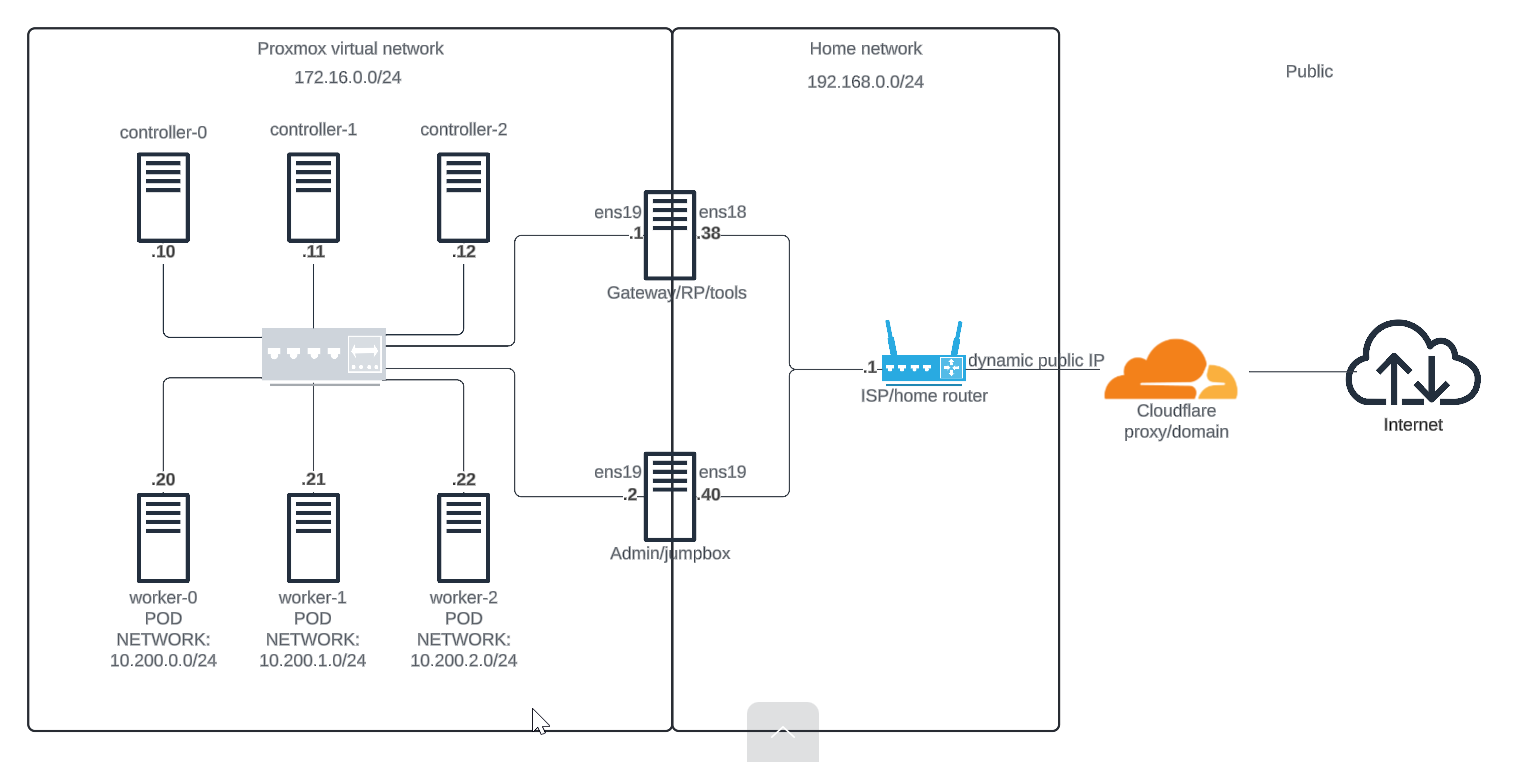
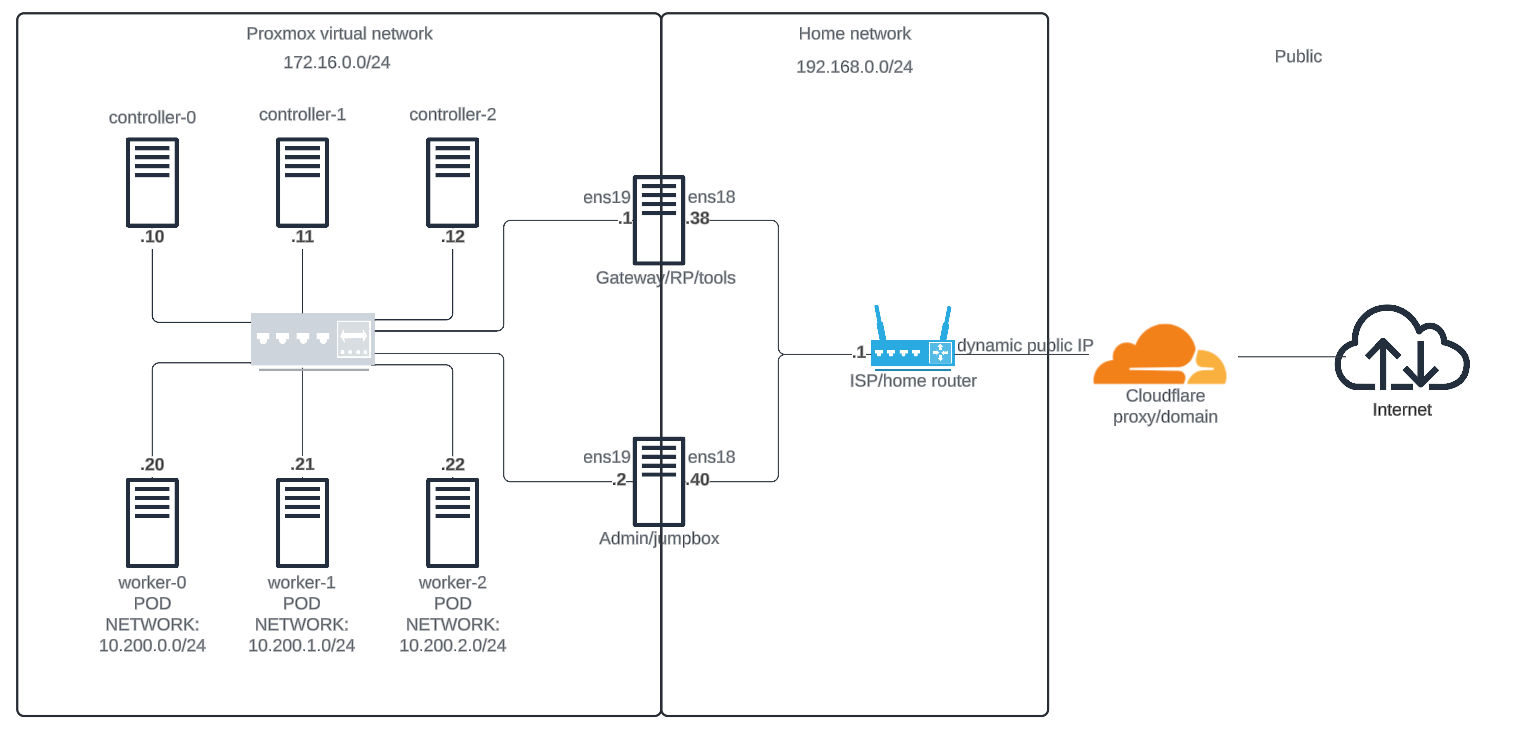
update pre-reqs to add more info about ddns setup

Changed region(s): [[0.0, 0.0, 0.9908, 0.9986], [0.836, 0.0624, 0.8669, 0.1248], [0.4954, 0.4681, 0.5264, 0.4993]]

diff --git a/docs/01-prerequisites.md b/docs/01-prerequisites.md
@@ -10,13 +10,14 @@ List of the VM used in this tutorial :
 
 |Name|Role|vCPU|RAM|Storage (thin)|IP|OS|
 |--|--|--|--|--|--|--|
-|controller-0|controller|2|4GB|20GB|192.168.8.10/24|Ubuntu|
-|controller-1|controller|2|4GB|20GB|192.168.8.11/24|Ubuntu|
-|controller-2|controller|2|4GB|20GB|192.168.8.12/24|Ubuntu|
-|worker-0|worker|2|4GB|20GB|192.168.8.20/24|Ubuntu|
-|worker-1|worker|2|4GB|20GB|192.168.8.21/24|Ubuntu|
-|worker-2|worker|2|4GB|20GB|192.168.8.22/24|Ubuntu|
-|gateway-01|Reverse Proxy, client tools, gateway|1|1GB|20GB|192.168.8.1/24 + PUBLIC IP|Debian|
+|controller-0|controller|2|4GB|20GB|172.16.0.10/24|Ubuntu|
+|controller-1|controller|2|4GB|20GB|172.16.0.11/24|Ubuntu|
+|controller-2|controller|2|4GB|20GB|172.16.0.12/24|Ubuntu|
+|worker-0|worker|2|4GB|20GB|172.16.0.20/24|Ubuntu|
+|worker-1|worker|2|4GB|20GB|172.16.0.21/24|Ubuntu|
+|worker-2|worker|2|4GB|20GB|172.16.0.22/24|Ubuntu|
+|gateway-01|Reverse Proxy, client tools, gateway|1|1GB|20GB|192.168.0.38/24 + 172.16.0.1/24|Debian|
+|admin-jumpbox|jumpbox/admin tasks|1|4GB|20GB|172.16.0.22/24|Ubuntu|
 
 On the Proxmox hypervisor, I just added the `k8s-` prefix in the VM names.
 
@@ -28,18 +29,47 @@ On the Proxmox hypervisor, I just added the `k8s-` prefix in the VM names.
 
 For this tutorial, you need 2 networks on your Proxmox hypervisor :
 
-* a public network bridge (`vmbr0` in the following screenshot).
-* a private Kubernetes network bridge (`vmbr8` in the following screenshot).
+* a network bridge to your local network (`vmbr0` in the following screenshot). This network has access to the internet, hence serves as the public network bridge.
+* a Proxmox virtual private network bridge (`vmbr8` in the following screenshot). This network has no direct internet connectivity and routes traffic via `gateway-01`. Hence, the jumpbox is used to connect to all the nodes within this network. 
 
 ![proxmox network](images/proxmox-network.PNG)
 
+> Quick tip: when creating the K8s VMs on Proxmox, add both network interfaces to them initially as they need internet connectivity during installation/for updates. You can detach the `vmbr8` interface from the VM after build.
+
+Here is a sample of the network config for one of the servers in the virtual private network:
+
+```bash
+root@controller-0:/# cat /etc/netplan/00-installer-config.yaml 
+network:
+  version: 2
+  ethernets:
+    ens18:
+      dhcp4: true
+      dhcp4-overrides:
+        use-routes: false
+    ens19:
+      dhcp4: no
+      addresses:
+        - 172.16.0.10/24
+      gateway4: 172.16.0.1
+      nameservers:
+        addresses:
+          - 8.8.8.8
+          - 8.8.4.4
+      routes:
+        - to: 172.16.0.0/24
+          via: 172.16.0.1
+          scope: link
+```
+
+
 > Note: the pods networks will be defined later.
 
-All the Kubernetes nodes (workers and controllers) only need one network interface linked to the private Kubernetes network (`vmbr8`).
+All the Kubernetes nodes (workers and controllers) only need one network interface linked to the virtual private network (`vmbr8`).
 
 ![proxmox vm hardware](images/proxmox-vm-hardware.PNG)
 
-The reverse proxy / client tools / gateway VM needs 2 network interfaces, one linked to the private Kubernetes network (`vmbr8`) and the other linked to the public network (`vmbr0`).
+The reverse proxy/client tools/gateway and admin/jumpbox VMs need 2 network interfaces, one linked to the virtual private network (`vmbr8`) and the other linked to the local network (`vmbr0`).
 
 ![proxmox vm hardware](images/proxmox-vm-hardware-gw.PNG)
 
@@ -57,7 +87,7 @@ This diagram represents the network design:
 >
 > Because it's just a tutorial, the IPv6 stack is not configured, but you can configure it if you want.
 
-This VM is used as a NAT gateway for the private Kubernetes network, as a reverse proxy and as a client tools.
+This VM is used as a NAT gateway for the virtual private network, as a reverse proxy and as a client tools.
 
 This means all the client steps like certificates generation will be done on this VM (in the next parts of this tutorial).
 
@@ -65,30 +95,31 @@ You have to:
 
 * Install the latest [amd64 Debian netinst image](https://www.debian.org/CD/netinst/) on this VM.
 
-* Configure the network interfaces (see the network architecture). Example of `/etc/network/interfaces` file if your public interface is ens18 and your private interface is ens19 (you need to replace `PUBLIC_IP_ADDRESS`, `MASK` and `PUBLIC_IP_GATEWAY` with your values):
+* Configure the network interfaces (see the network architecture). Example of `/etc/network/interfaces` file if your local network interface is ens18 and your Proxmox virtual private interface is ens19:
 
 ```bash
+root@gateway-01:~# cat /etc/network/interfaces
+# This file describes the network interfaces available on your system
+# and how to activate them. For more information, see interfaces(5).
+
 source /etc/network/interfaces.d/*
 
 # The loopback network interface
 auto lo
 iface lo inet loopback
 
-# The public network interface
-auto ens18
+# The primary network interface
 allow-hotplug ens18
-iface ens18 inet static
-        address PUBLIC_IP_ADDRESS/MASK
-        gateway PUBLIC_IP_GATEWAY
-        dns-nameservers 9.9.9.9
+iface ens18 inet dhcp
 
-# The private network interface
+# Add the following configuration for ens19
 auto ens19
-allow-hotplug ens19
 iface ens19 inet static
-        address 192.168.8.1/24
-        dns-nameservers 9.9.9.9
+    address 172.16.0.1
+    netmask 255.255.255.0
 ```
+
+> Note: I did not configure the IP address for ens19 as static because it is managed automatically by my network/router (DHCP); same goes for DNS. To ensure stability, I have reserved the IP addresses for all VMs within the local network range on the router, to prevent them from from changing.
 
 > If you want, you can define the IPv6 stack configuration.
 >
@@ -130,7 +161,7 @@ sudo echo '1' > /proc/sys/net/ipv4/ip_forward
 
 > If you want, you can define the IPv6 stack configuration.
 
-* Configure the iptables firewall (allow some ports and configure NAT). Example of `/etc/iptables/rules.v4` file if ens18 is your public interface and ens19 is your private interface:
+* Configure the iptables firewall (allow some ports and configure NAT). Example of `/etc/iptables/rules.v4` file if ens18 is your local network interface and ens19 is your private interface:
 
 ```bash
 # Generated by xtables-save v1.8.2 on Fri Jun  5 16:45:02 2020
@@ -163,24 +194,24 @@ COMMIT
 sudo iptables-restore < /etc/iptables/rules.v4
 ```
 
-* Configure the `/etc/hosts` file (you need to replace `PUBLIC_GW_IP`):
+* Configure the `/etc/hosts` file:
 
 ```bash
 127.0.0.1       localhost
-PUBLIC_GW_IP    gateway-01.external gateway-01
+192.168.0.1     gateway-01.external gateway-01
 
 # The following lines are desirable for IPv6 capable hosts
-::1     localhost ip6-localhost ip6-loopback
-ff02::1 ip6-allnodes
-ff02::2 ip6-allrouters
+::1             localhost ip6-localhost ip6-loopback
+ff02::1         ip6-allnodes
+ff02::2         ip6-allrouters
 
-192.168.8.10    controller-0
-192.168.8.11    controller-1
-192.168.8.12    controller-2
+172.16.0.10    controller-0
+172.16.0.11    controller-1
+172.16.0.12    controller-2
 
-192.168.8.20    worker-0
-192.168.8.21    worker-1
-192.168.8.22    worker-2
+172.16.0.20    worker-0
+172.16.0.21    worker-1
+172.16.0.22    worker-2
 ```
 
 * To confirm the network configuration, reboot the VM and check the active IP addresses:
@@ -199,24 +230,36 @@ These VM are used as Kubernetes node (controllers or workers).
 
 The basic VM configuration process is the same for the 6 VM (you can also configure one, clone it and change IP address and hostname for each clone).
 
+ > Remember ☝🏽✍🏽: when creating the K8s node VMs on Proxmox, add both network interfaces to them initially as they need internet connectivity during installation/for updates. You can detach the `vmbr8` interface from the VM after build.
+
 You have to:
 
 * Install the [Ubuntu 22.04.3 LTS Server install image](https://releases.ubuntu.com/22.04/) on this VM.
 
-* Configure the network interface (see the network architecture). Example of `/etc/netplan/00-installer-config.yaml` file if ens18 is the name of your private network interface (you need to change the IP address depending on the installed server):
+* Configure the network interface (see the network architecture). Example of `/etc/netplan/00-installer-config.yaml` file if ens18 is the name of your Proxmox virtual private network interface (you need to change the IP address depending on the installed server):
 
 ```bash
-# This is the network config written by 'subiquity'
+root@controller-0:/# cat /etc/netplan/00-installer-config.yaml 
 network:
+  version: 2
   ethernets:
     ens18:
+      dhcp4: true
+      dhcp4-overrides:
+        use-routes: false
+    ens19:
+      dhcp4: no
       addresses:
-      - 192.168.8.10/24
-      gateway4: 192.168.8.1
+        - 172.16.0.10/24
+      gateway4: 172.16.0.1
       nameservers:
         addresses:
-        - 9.9.9.9
-  version: 2
+          - 8.8.8.8
+          - 8.8.4.4
+      routes:
+        - to: 172.16.0.0/24
+          via: 172.16.0.1
+          scope: link
 ```
 
 > If you want, you can define the IPv6 stack configuration.
@@ -250,7 +293,7 @@ sudo systemctl enable ssh
 sudo systemctl start ssh
 ```
 
-* Configure `/etc/hosts` file. Example for controller-0 (need to replace `PUBLIC_GW_IP` and adapt this sample config for each VM):
+* Configure `/etc/hosts` file. Example for controller-0:
 
 ```bash
 127.0.0.1 localhost
@@ -262,22 +305,88 @@ fe00::0 ip6-localnet
 ff00::0 ip6-mcastprefix
 ff02::1 ip6-allnodes
 ff02::2 ip6-allrouters
-
-PUBLIC_GW_IP    gateway-01.external
-192.168.8.1     gateway-01
-
-192.168.8.11    controller-1
-192.168.8.12    controller-2
-
-192.168.8.20    worker-0
-192.168.8.21    worker-1
-192.168.8.22    worker-2
+# Example entry to add to all nodes' /etc/hosts
+172.16.0.11    controller-1
+172.16.0.12    controller-2
+172.16.0.20    worker-0
+172.16.0.21    worker-1
+172.16.0.22    worker-2
+192.168.0.1    gateway-01
 ```
 
 * To confirm the network configuration, reboot the VM and check the active IP address:
 
 ```bash
 sudo reboot
+```
+
+## Setting up admin server/jumpbox and DDNS (Dynamic DNS)
+
+#### Admin server/jumpbox setup
+This VM is used for accessing the K8s node machines as they can not be accessed directly from the local network (`192.168.0.0/24`). Not much configuration is needed except assigning it the required interfaces as shown in the network diagram and configuring SSH keys to be used for connecting to the K8s nodes.  
+
+#### DDNS (Dynamic DNS) configuration
+- [Register a domain with Cloudflare](https://developers.cloudflare.com/registrar/get-started/register-domain/). If you already have a domain registered elsewhere, then [add your domain/site on Cloudflare](https://developers.cloudflare.com/fundamentals/setup/manage-domains/add-site/) and [update the nameservers at your domain registrar to point to Cloudflare as your authoritative DNS server](https://developers.cloudflare.com/dns/zone-setups/full-setup/setup/).
+
+>
+- [Add a DNS record (A record) on the site](https://developers.cloudflare.com/dns/manage-dns-records/how-to/create-dns-records/) to map your domain to your home router's current public IP address.
+
+> Tip: This is optional but I highly recommend enabling `proxied status` when adding the A record.
+
+>
+- [Install DDClient and configure it with your registered domain](https://strangebutohwell.gitbook.io/knowledge/linux/applications/ddclient/installing-latest-ddclien; ignore the PHP installation part of the guide. Here is an example of a working ddclient.conf:
+
+```bash
+root@jumpbox:/etc/ddclient# cat ddclient.conf 
+daemon=600  # check every 10 minutes
+ssl=yes     # use ssl-support
+use=web     # acquire current IP address via web URL
+
+##
+## Cloudflare
+protocol=cloudflare,        \
+zone=your-domain.com,            \
+ttl=1,                      \
+login=your-email-address,    \
+password=your-cloudflare global-api-key   \
+your-domain.com
+```
+>
+- Configure ddclient to run as a daemon by modifying  `/etc/default/ddclient ` file to include the correct daemon settings below:
+
+```bash
+# /etc/default/ddclient
+
+# Set to "true" if ddclient should run in daemon mode
+run_daemon="true"
+
+# Set the interval in seconds between updates
+daemon_interval="600"
+```
+
+> Note: I used [global API key for this setup](https://developers.cloudflare.com/dns/manage-dns-records/how-to/create-dns-records/), not API token which is the best choice fo production environments.
+
+- Apply the changes by restarting the ddclient service and test
+
+```bash
+# restart the ddclient service
+sudo systemctl restart ddclient
+sudo systemctl enable ddclient
+```
+
+```bash
+# check service status
+sudo systemctl status ddclient
+```
+
+```bash
+# get current public IP address
+sudo ddclient -query
+```
+
+```bash
+# confirm that IP address update on Cloudflare works
+sudo ddclient -daemon=0 -verbose -noquiet -force
 ```
 
 ## Running Commands in Parallel with tmux
